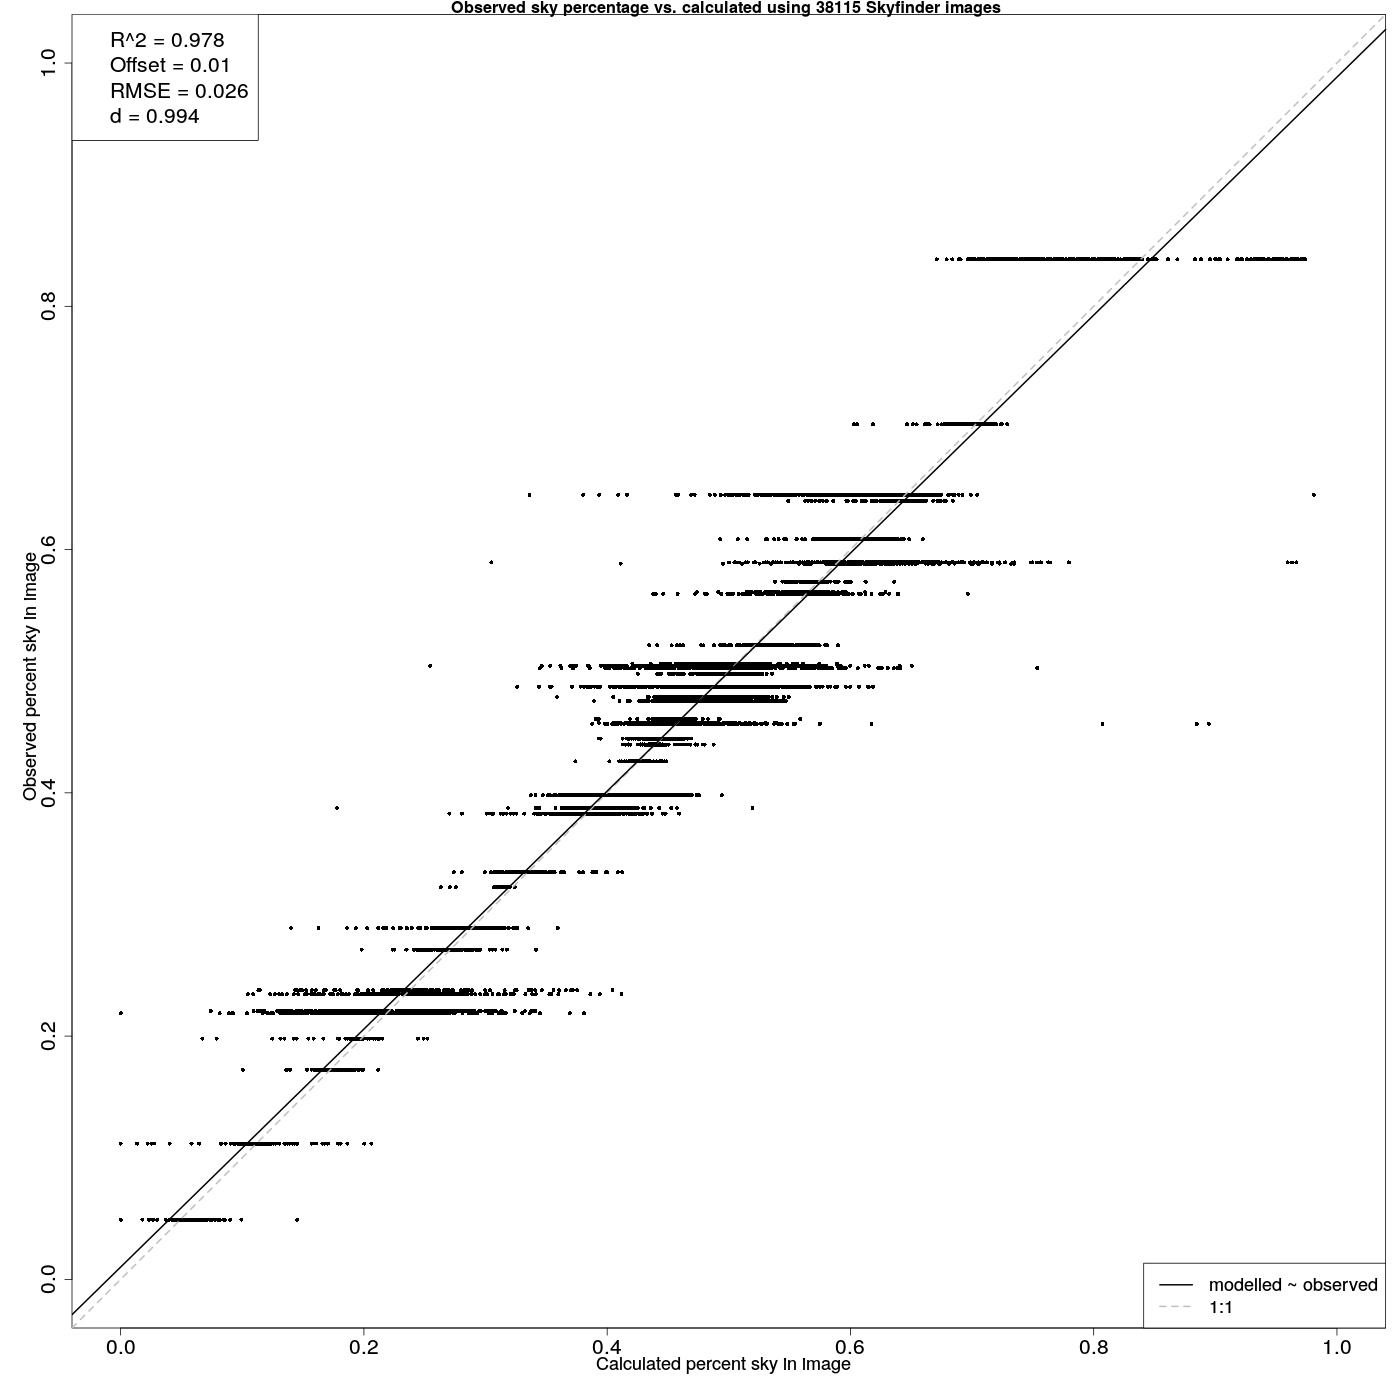
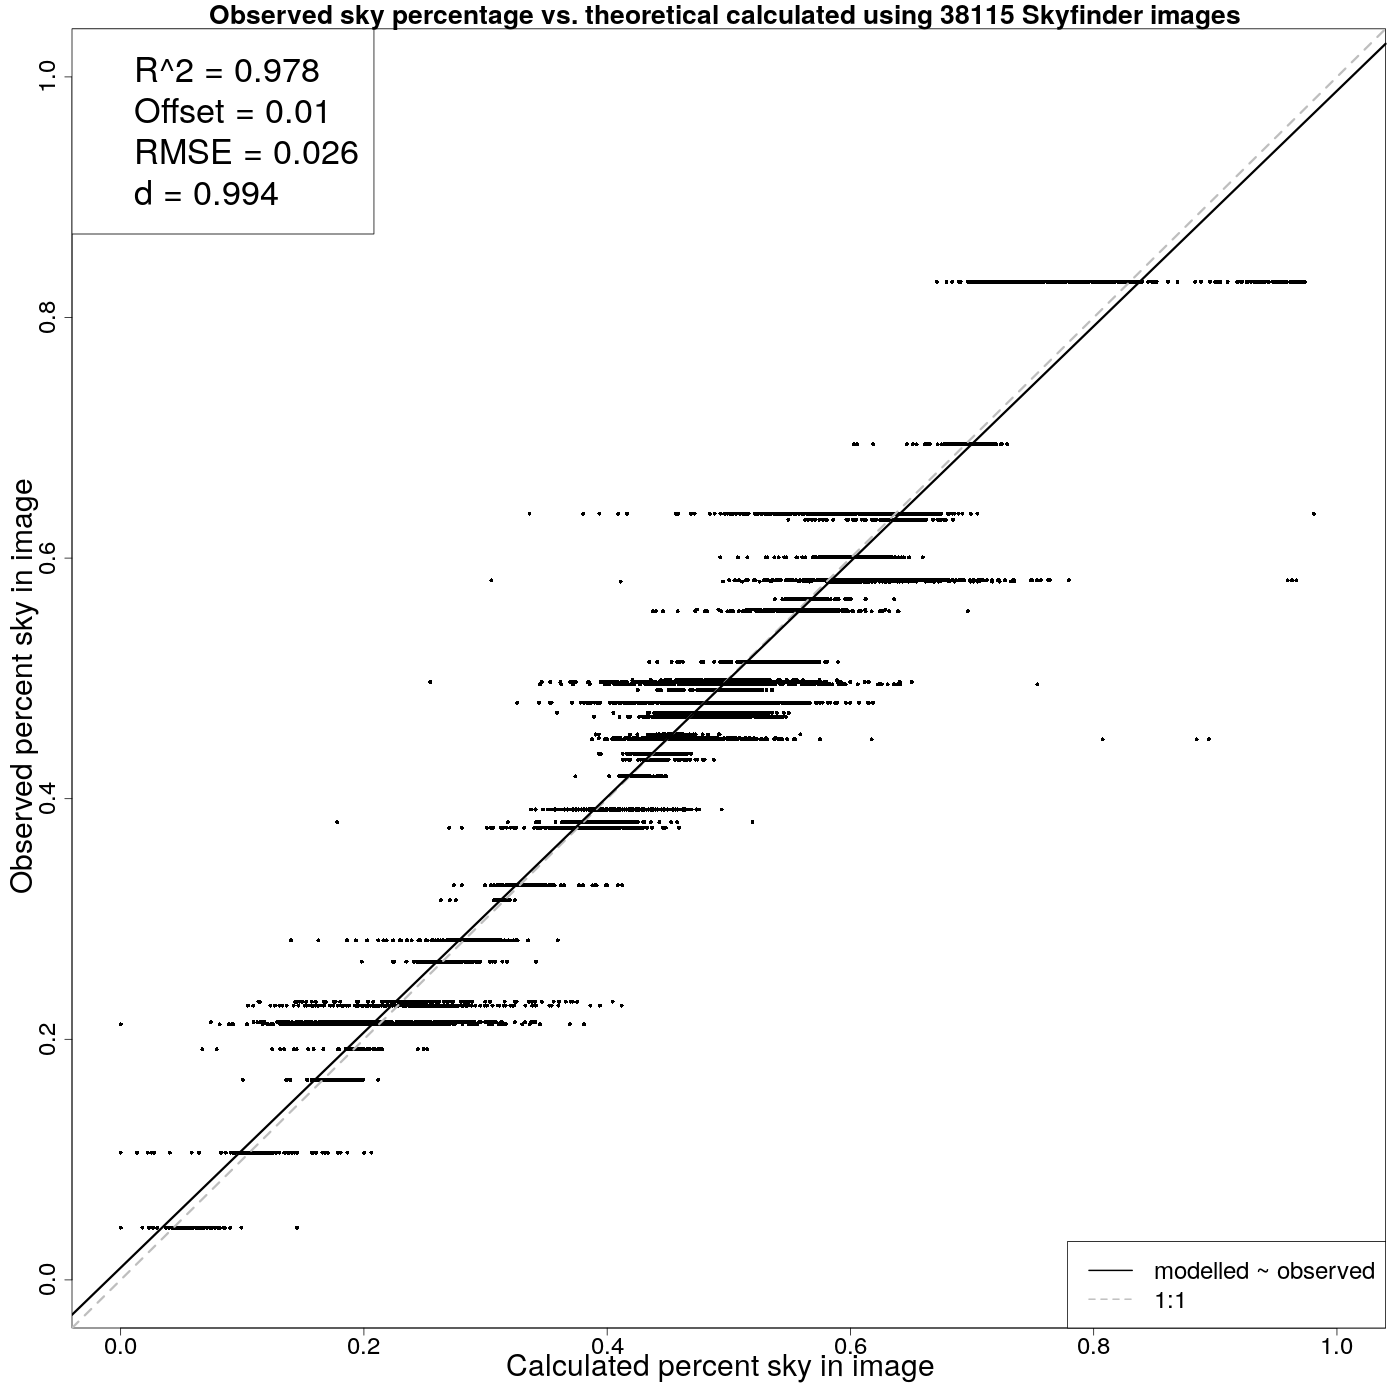
Still adding new images

diff --git a/UrbanClimateICUC10-SVF.tex b/UrbanClimateICUC10-SVF.tex
@@ -415,7 +415,8 @@ Figure \ref{fig:errorplots} presents a theoretical best case. If the NN was 100\
 \centering
 a)\includegraphics[scale=0.15]{Images/ErrorPlots.png}
 b)\includegraphics[scale=0.15]{Images/ErrorPlots2.png}
-\caption{\textbf{Theoretical best case results if the NN is 100\% accurate for a) Skyfinder and b) GSV datasets.}}
+c)\includegraphics[scale=0.15]{Images/ErrorPlots1Combined.png}
+\caption{\textbf{Theoretical best case results if the NN is 100\% accurate for a) Skyfinder, b) GSV datasets, and c) combined datasets.}}
 \label{fig:errorplots}
 \end{figure}
 
